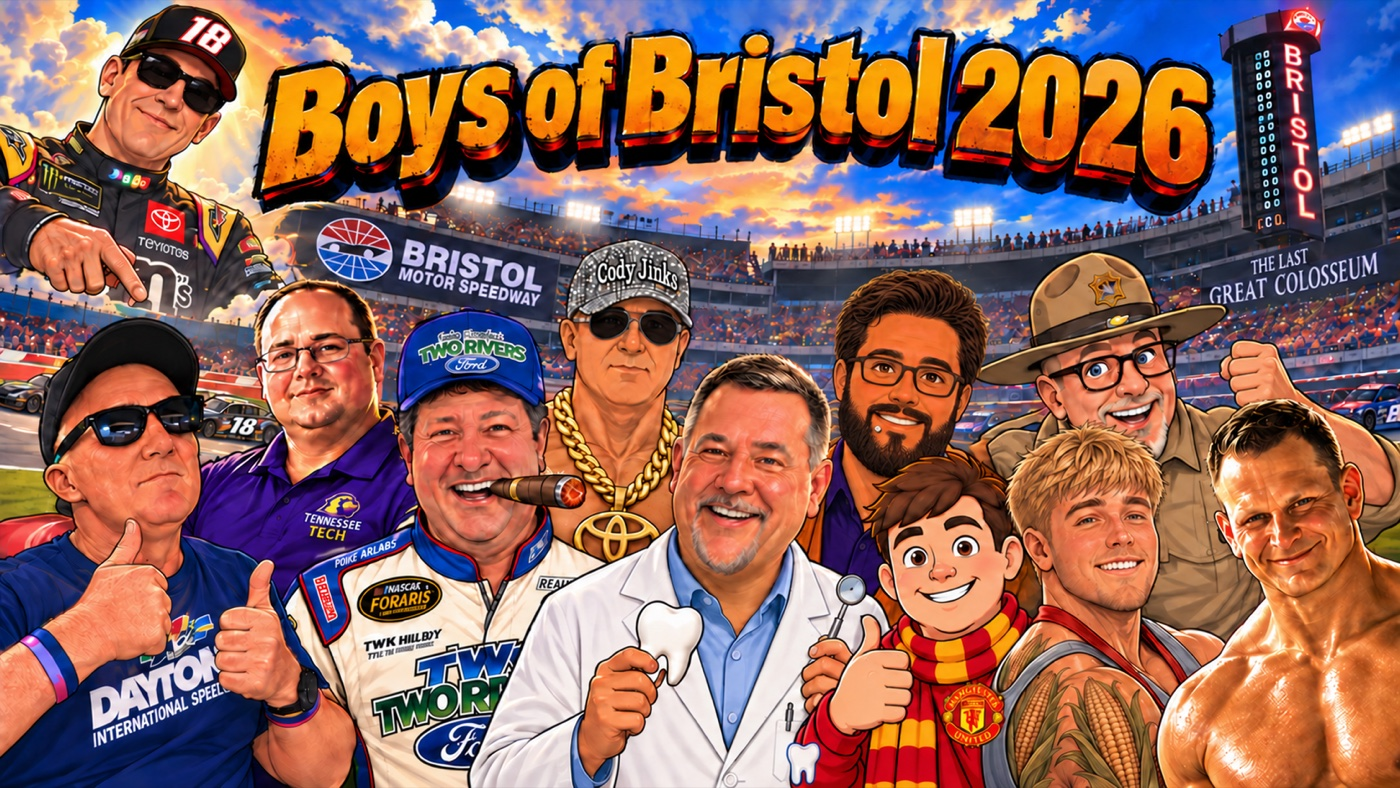
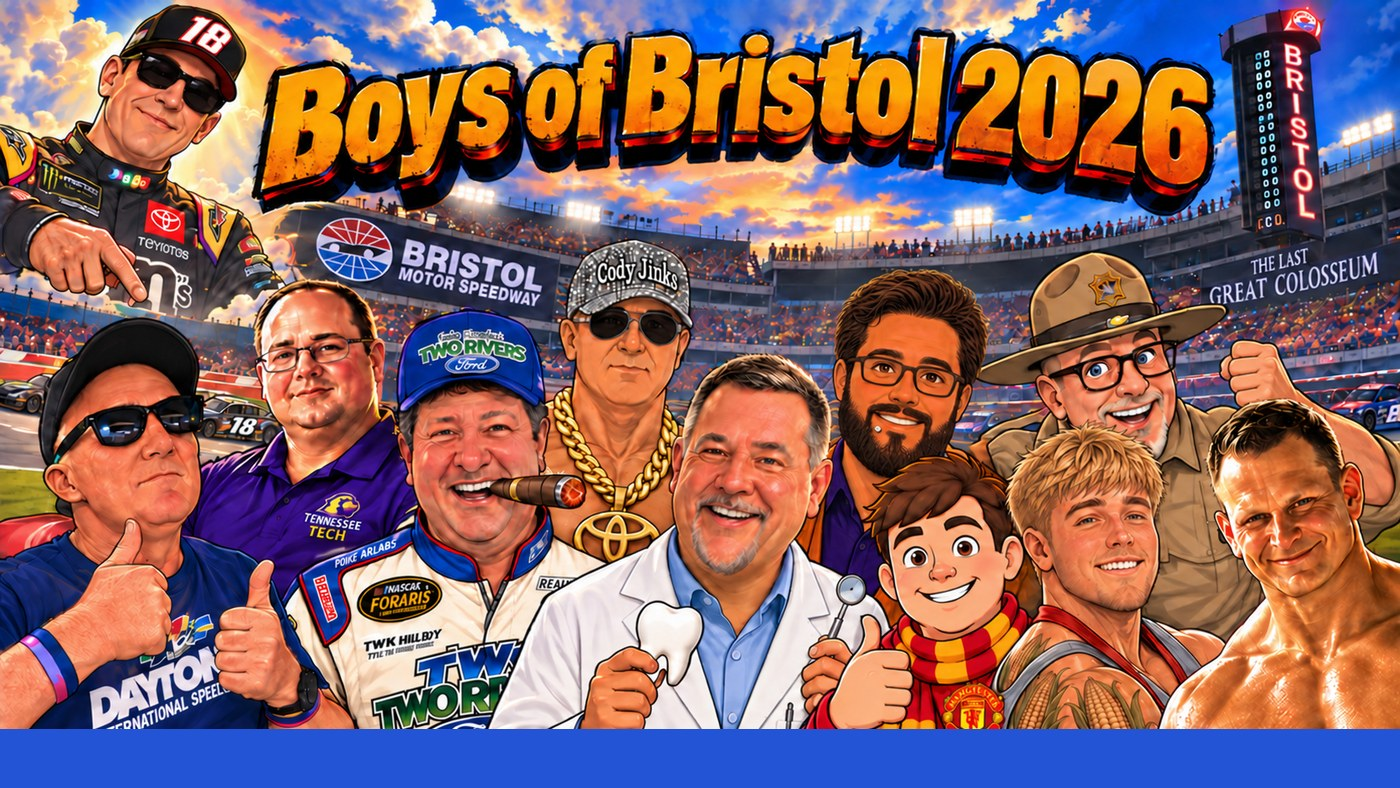
Use blue share preview accent

Changed region(s): [[0.0, 0.9137, 1.0, 1.0]]

diff --git a/index.html b/index.html
@@ -5,13 +5,14 @@
   <meta name="viewport" content="width=device-width, initial-scale=1">
   <title>Boys of Bristol 2026</title>
   <meta name="description" content="Boys of Bristol NASCAR fantasy draft and race tracker.">
+  <meta name="theme-color" content="#2354D6">
 
   <meta property="og:type" content="website">
   <meta property="og:url" content="https://theleitas.github.io/boys-of-bristol-share/">
   <meta property="og:title" content="Boys of Bristol 2026">
   <meta property="og:description" content="NASCAR fantasy draft and race tracker for The Boys of Bristol.">
-  <meta property="og:image" content="https://theleitas.github.io/boys-of-bristol-share/thumb.jpg?v=1">
-  <meta property="og:image:secure_url" content="https://theleitas.github.io/boys-of-bristol-share/thumb.jpg?v=1">
+  <meta property="og:image" content="https://theleitas.github.io/boys-of-bristol-share/thumb.jpg?v=2">
+  <meta property="og:image:secure_url" content="https://theleitas.github.io/boys-of-bristol-share/thumb.jpg?v=2">
   <meta property="og:image:type" content="image/jpeg">
   <meta property="og:image:width" content="1400">
   <meta property="og:image:height" content="788">
@@ -19,9 +20,9 @@
   <meta name="twitter:card" content="summary_large_image">
   <meta name="twitter:title" content="Boys of Bristol 2026">
   <meta name="twitter:description" content="NASCAR fantasy draft and race tracker for The Boys of Bristol.">
-  <meta name="twitter:image" content="https://theleitas.github.io/boys-of-bristol-share/thumb.jpg?v=1">
+  <meta name="twitter:image" content="https://theleitas.github.io/boys-of-bristol-share/thumb.jpg?v=2">
   <link rel="canonical" href="https://theleitas.github.io/boys-of-bristol-share/">
-  <link rel="image_src" href="https://theleitas.github.io/boys-of-bristol-share/thumb.jpg?v=1">
+  <link rel="image_src" href="https://theleitas.github.io/boys-of-bristol-share/thumb.jpg?v=2">
 
   <script>
     window.location.replace("https://nascar.streamlit.app/");
@@ -30,7 +31,7 @@
     html, body {
       margin: 0;
       min-height: 100%;
-      background: #020202;
+      background: #2354D6;
       color: #fff;
       font-family: system-ui, -apple-system, BlinkMacSystemFont, "Segoe UI", sans-serif;
     }
